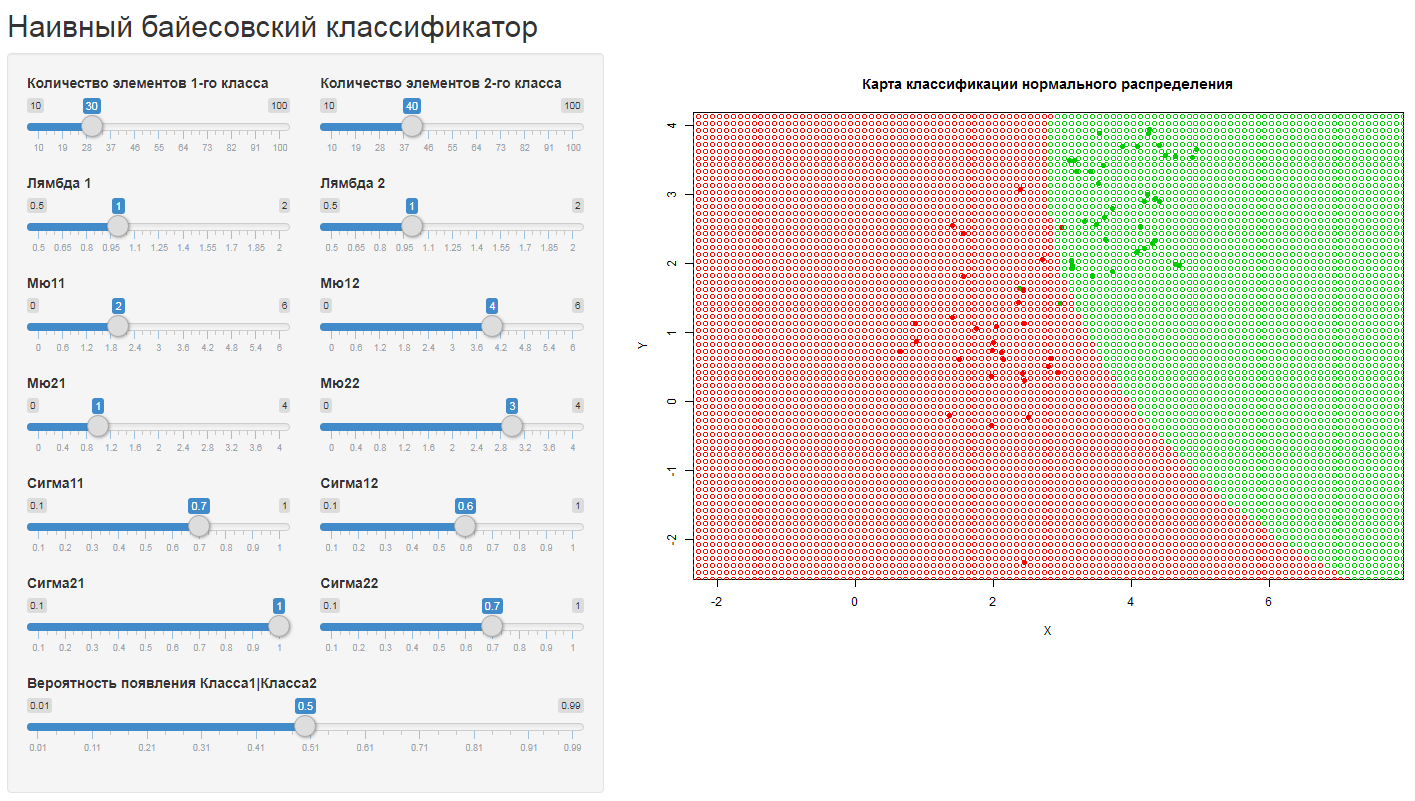
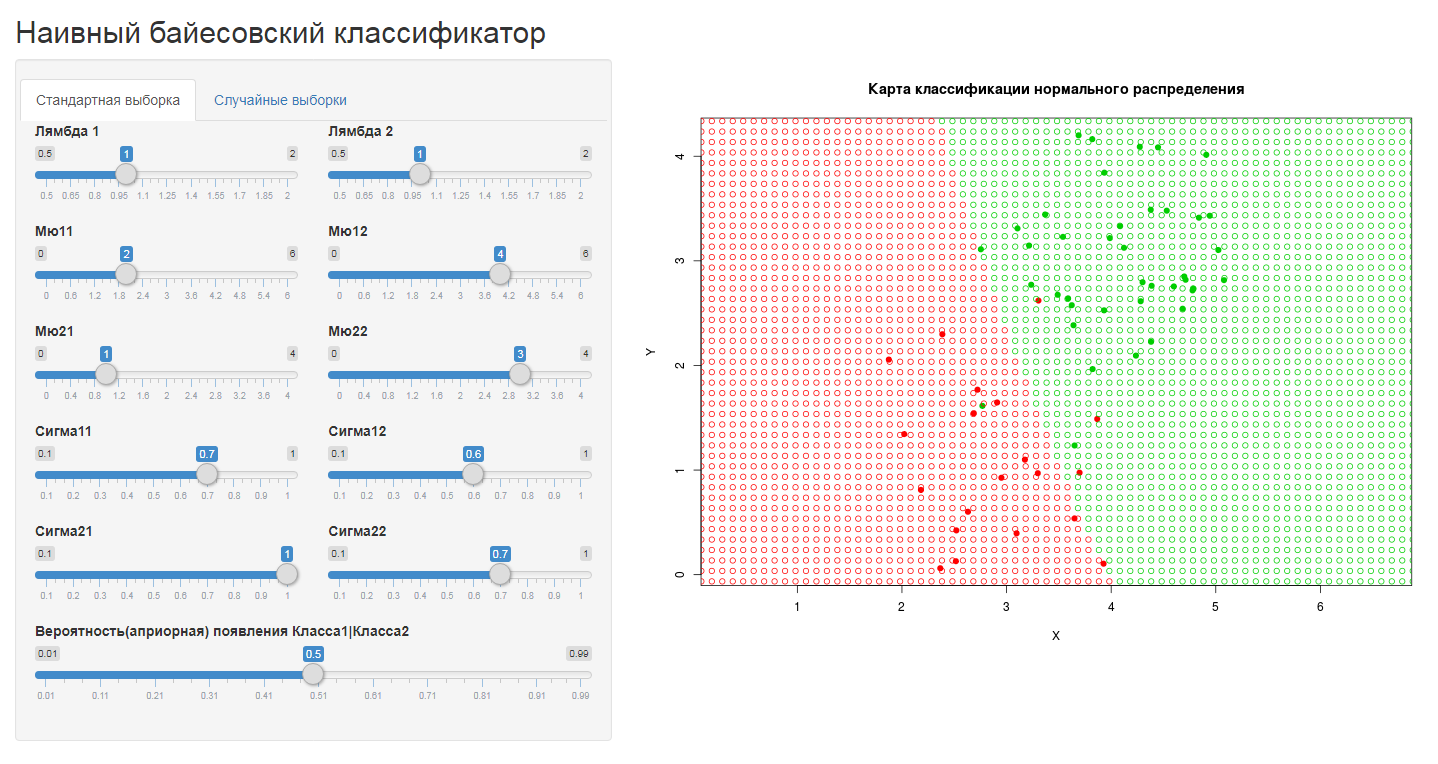
Naive 2.0

diff --git a/README.md b/README.md
@@ -259,12 +259,12 @@ draw_lines <- function(mu, mtx, title) { #n-мерное гауссовское 
 
 Реализация на R
 ```R
-naive_bayes <- function(xl, len1, len2, P, lyambda) {
+calc_mu <- function(xl) sum(xl) / length(xl)
+
+calc_sigma <- function(xl, mu) sum((xl-mu)^2)/(length(xl)-1)
+
+naive_bayes <- function(xl, len1, len2, P, lyambda, mu, sigma) {
   p <- function(ksi, mu, sigma) (1/(sigma*sqrt(2*pi)))*exp(-(ksi-mu)^2 / (2*sigma^2))
-  
-  calc_mu <- function(xl) sum(xl) / length(xl)
-  
-  calc_sigma <- function(xl, mu) sum((xl-mu)^2)/(length(xl)-1)
   
   classification <- function(x, classes, mu, sigma, Py, lyambda) {
     classSum <- rep(0, length(classes))
@@ -295,21 +295,23 @@ naive_bayes <- function(xl, len1, len2, P, lyambda) {
     return(classifiedObj)
   }
   
+  draw_plot <- function(xl, classifiedObj) {
+    n <- ncol(xl)
+    colors <- c("first"="red", "second"="green3")
+    plot(xl[, 1:(n-1)], pch = 21, bg = colors[xl[,n]], col = colors[xl[,n]], 
+         main = "Карта классификации нормального распределения", asp = 1)
+    points(classifiedObj[, 1:(n-1)], pch = 21, col = colors[classifiedObj[, n]])
+  }
+  
   Py <- P
   len <- len1 + len2
-  first_x <- xl[1:len1,1]
-  first_y <- xl[1:len1,2]
-  second_x <- xl[(len1+1):len,1]
-  second_y <- xl[(len1+1):len,2]
-  
-  mu <- rbind(c(calc_mu(first_x), calc_mu(first_y)), c(calc_mu(second_x), calc_mu(second_y)))
-  
-  sigma <- rbind(c(calc_sigma(first_x, mu[1,1]), calc_sigma(first_y, mu[1,2])), c(calc_sigma(second_x, mu[2,1]), calc_sigma(second_y, mu[2,2])))
   
   classes <- unique(xl[,ncol(xl)])
   
   classified <- classify_all(classes, mu, sigma, Py, lyambda)
+  draw_plot(xl, classified)
 }
+
 ```
 
 Визуализация работы алгоритма при помощи <a href="https://kompot-vjacovich.shinyapps.io/naive/">shiny</a>
